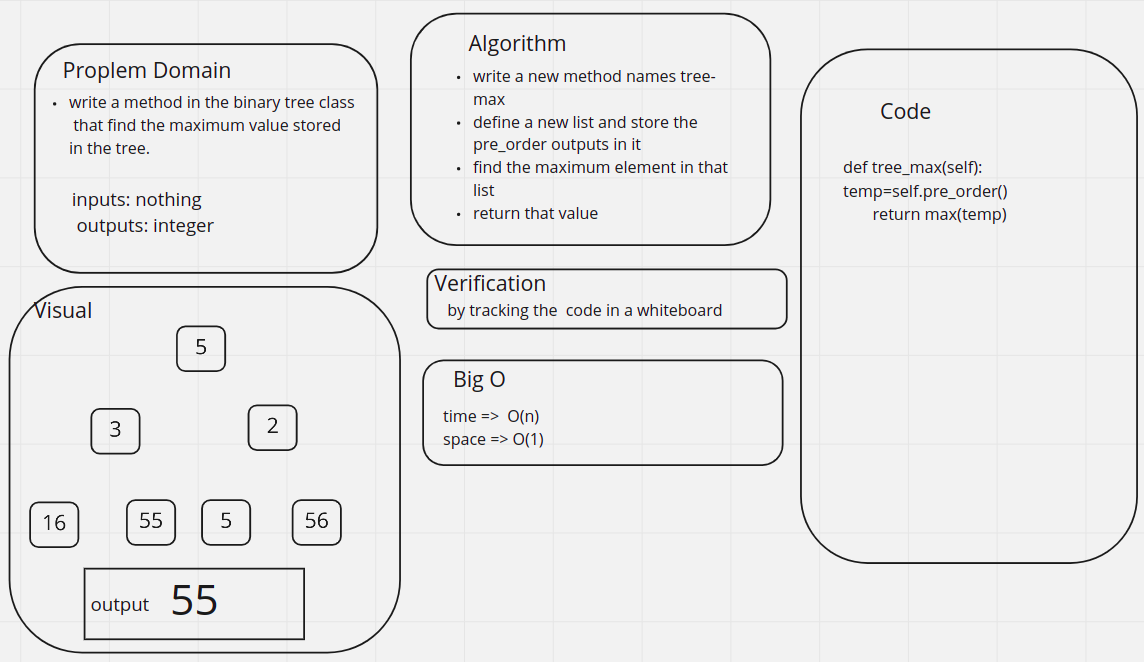
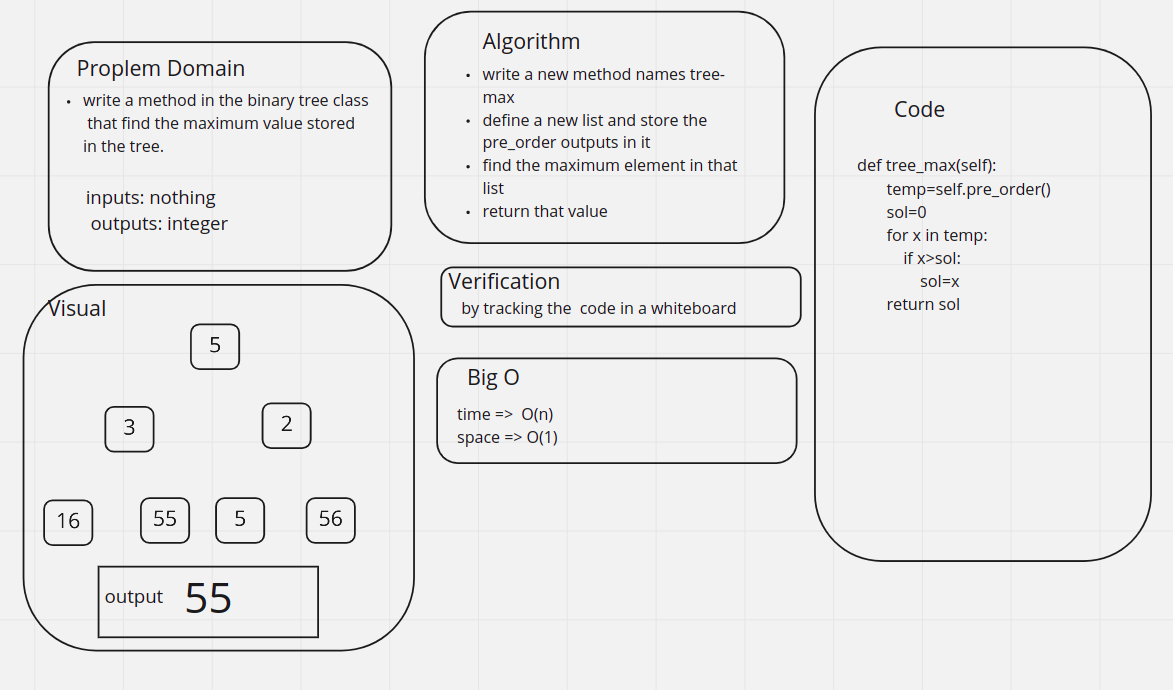
solving it without any built in function

diff --git a/python/code_challenges/trees/trees.py b/python/code_challenges/trees/trees.py
@@ -47,7 +47,11 @@ class Binary_Tree:
         return self.sol
     def tree_max(self):
         temp=self.pre_order()
-        return max(temp)
+        sol=0
+        for x in temp:
+            if x>sol:
+                sol=x
+        return sol
 
 
 
